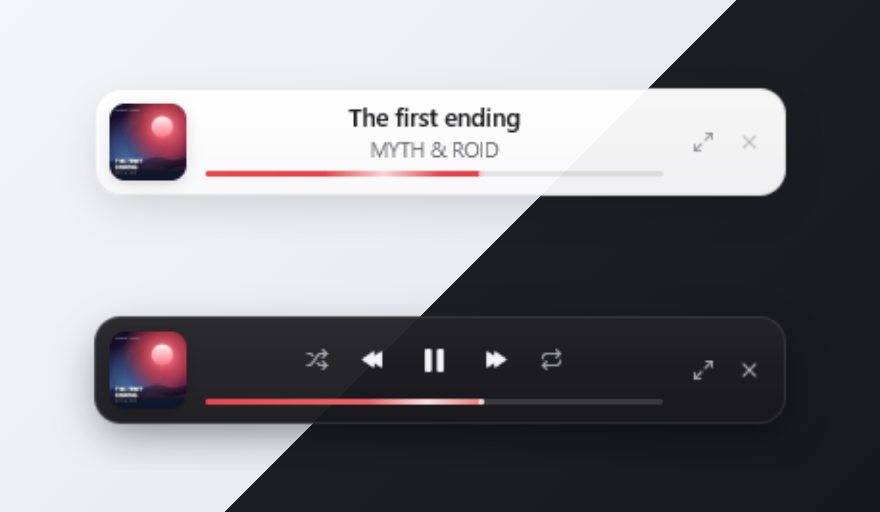
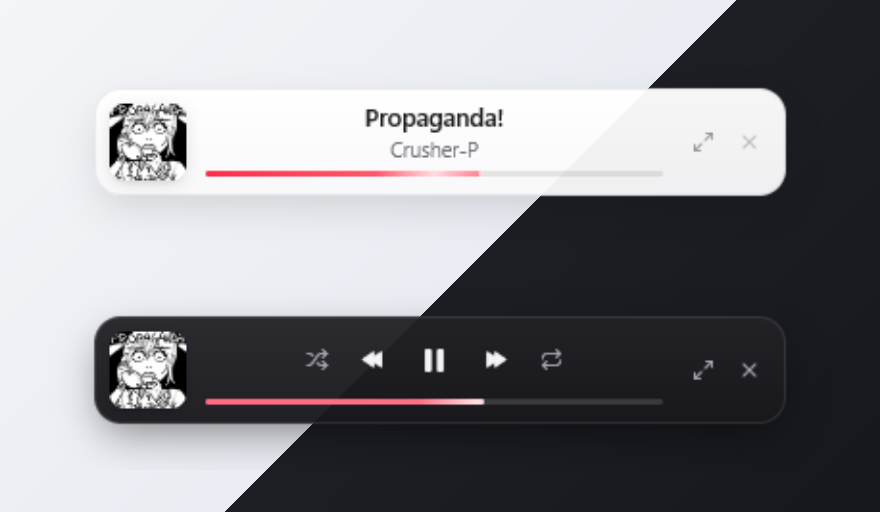
docs: unify mini player and progress style screenshots with Propaganda! cover

Changed region(s): [[0.1227, 0.625, 0.5523, 0.8125], [0.3682, 0.1875, 0.6136, 0.3438], [0.1227, 0.1875, 0.2148, 0.375]]

diff --git a/internal/app/ui_mini_test.go b/internal/app/ui_mini_test.go
@@ -101,10 +101,22 @@ func TestMiniViewsRenderAndInteractions(t *testing.T) {
 	a.settings.MiniPlayer = true
 	coverURL := "https://example.invalid/cover.png"
 	bmp := testCoverBitmap(t)
-	for _, sz := range []int{120, 160, 240, 460} {
-		a.art.art[spotify.Sized(coverURL, sz)] = &artwork{bmp: bmp, tint: ui.Hex("#e5484d"), used: time.Now()}
+	tint := ui.Hex("#e5484d")
+	if h := os.Getenv("MINI_SNAP_TINT"); h != "" {
+		tint = ui.Hex(h)
 	}
-	a.pl.Cue([]spotify.Track{{ID: "t1", Name: "The first ending", Artists: []spotify.Artist{{Name: "MYTH & ROID"}}, Album: spotify.Album{PicURL: coverURL}, Duration: 240000}})
+	for _, sz := range []int{120, 160, 240, 460} {
+		a.art.art[spotify.Sized(coverURL, sz)] = &artwork{bmp: bmp, tint: tint, used: time.Now()}
+	}
+	trackName := "The first ending"
+	if v := os.Getenv("MINI_SNAP_TITLE"); v != "" {
+		trackName = v
+	}
+	artistName := "MYTH & ROID"
+	if v := os.Getenv("MINI_SNAP_ARTIST"); v != "" {
+		artistName = v
+	}
+	a.pl.Cue([]spotify.Track{{ID: "t1", Name: trackName, Artists: []spotify.Artist{{Name: artistName}}, Album: spotify.Album{PicURL: coverURL}, Duration: 240000}})
 	a.pl.Hold(145 * time.Second)
 
 	snapDir := os.Getenv("MINI_SNAP_DIR")
@@ -127,7 +139,7 @@ func TestMiniViewsRenderAndInteractions(t *testing.T) {
 	bw, bh := miniWindowSize(miniStyleBar)
 	tb := ui.NewTester(a.miniView, bw, bh)
 	tb.Frame()
-	if !tb.HasText("The first ending") {
+	if !tb.HasText(trackName) {
 		t.Fatal("bar mini player missing track title at rest")
 	}
 	if _, ok := tb.Find("切换黑夜模式"); ok {
@@ -192,7 +204,7 @@ func TestMiniViewsRenderAndInteractions(t *testing.T) {
 	if _, ok := tc.Find("播放/暂停"); !ok {
 		t.Fatal("split card missing always-visible play/pause button in bottom deck")
 	}
-	if !tc.HasText("The first ending") {
+	if !tc.HasText(trackName) {
 		t.Fatal("split card missing track title in bottom deck")
 	}
 	// Verify top-left corner of the cover image is rounded (not filled with solid opaque cover red).
